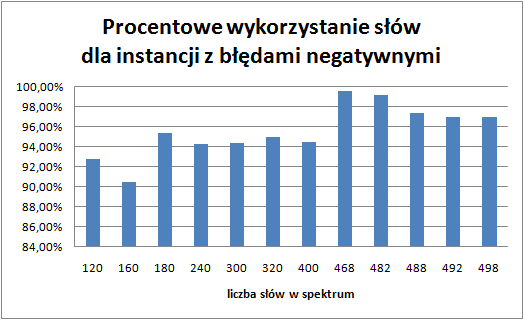
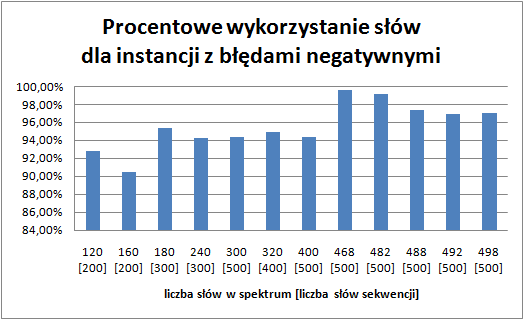
added negative algorithm added 3 new charts for negative algorithm added new chapters for report output file for negative algorithm

diff --git a/doc/report.tex b/doc/report.tex
@@ -150,6 +150,23 @@ $AGCTGTGACT$
 Algorytm zakończył swoje działanie. Zupełnie przypadkowo uzyskana sekwencja zgadza się z sekwencją wyjściową, mimo tego, że w ostatnim kroku algorytmu zostały sklejone słowa w sposób niekorzystny.
 Należy zauważyć, że znaczny wpływ na działanie algorytmu ma sposób wyboru wierzchołka w silnie spójnej składowej grafu z którego zostaną usunięte łuki, a także kolejność występowania wierzchołków w silnie spójnych składowych grafu. Jeśli na początku zamiast usuwać łuk z wierzchołka $TGT$ usunęlibyśmy dowolny inny łuk z tej silnie spójnej składowej grafu, to dalsze iteracje miałyby inny przebieg.
 
+\section{SBH negative}
+W algorytmie dla błędów pozytywnych korzystaliśmy z funkcji odległości dwóch łańcuchów tekstowych względem siebie. Było to możliwe dzięki temu, że porównywane łańcuchy miały tą samą długość. W przypadku algorytmu ogólnego, w którym również wykorzystujemy pojęcie odległości do konstrukcji łuków wkrada się pewna nieścisłość. Otóż porównywane są łańcuchy o różnych długościach. Jeśli więc mamy dwa łańcuchy S1=$AAAAAAA$ (długości 7 znaków) oraz S2=$GGGGGGGGAAA$ (długości 11 znaków), to zostanie utworzony łuk od S1 do S2 o koszcie 7, a w drugą stronę od S2 do S1 o koszcie 8. Zgodnie z algorytmem ogólnym uwzględniony zostanie łuk o niższym koszcie jako lepszy. Jak widać jest to złudne wrażenie, ponieważ łącząc elementy przy pomocy drugiego łuku aż trzy znaki pokryją się ze sobą, co oznacza, że będzie to lepsze połączenie de facto, bo utworzy krótszą sekwencję.
+Z powyższej obserwacji wynika, że należy zmodyfikować funkcję nadawania wartości łukom, aby uwzględniać relatywną liczbę powtarzających się znaków. W ten sposób tworzymy algorytm, który radzi sobie lepiej z instancjami zawierającymi błędy negatywne. Pogrubione zostały fragmenty, które uległy modyfikacji.
+
+Algorytm 4:
+1. Wczytaj zbiór wszystkich słów tworzących spektrum do słownika OLIGS
+2. Utwórz graf skierowany {\bf G}. Niech zbiór wierzchołków V stanowią słowa w słowniku OLIGS. Dla każdej pary wierzchołków $(i,j)$ dodaj łuk od wierzchołka $i$ do $j$ o koszcie równym {\bf różnicy długości słowa $i$ do odległości słowa w wierzchołku $j$ względem słowa w wierzchołku $i$}
+3. Znajdź {\bf najwyższy koszt łuku MAX} w grafie {\bf G}
+4. Utwórz graf skierowany {\bf G'}, który jest podgrafem grafu {\bf G} i zawiera tylko łuki o koszcie {\bf MAX}
+5. Usuń cykle w grafie {\bf G'} tworząc graf {\bf RES} korzystając z Algorytmu 1
+6. Uszereguj topologicznie {\bf RES}
+7. Wybierz najdłuższą możliwą ścieżkę {\bf PATH} w grafie {\bf RES}
+8. Usuń ze słownika OLIGS słowa wchodzące w skład ścieżki {\bf PATH}, w zamian dodając słowo utworzone przez połączenie słów zgodnie z kolejnością w ścieżce {\bf PATH}
+9. Jeśli słownik OLIGS zawiera dokładnie jedno słowo, to zakończ, w przeciwnym wypadku idź do punktu 2
+
+Powyższy algorytm posiada identyczną złożoność jak algorytm ogólny, działa jednak znacznie lepiej.
+
 \section{Wyniki}
 
 Wszystkie poniższe wykresy i porównania zostały wygenerowane na zbiorze instancji testowych. Należy przy tym zauważyć, że instancje z błędami pozytywnymi charakteryzują się tym, że można w nich wyróżnić jeden długi łańcuch, do którego czasem dochodzą lub wychodzą pojedyncze rozgałęzienia, tworząc czasem cykl. W przypadku instancji z błędami negatywnymi możemy wyróżnić kilka długich łańcuchów, które w najczęściej są w prosty sposób rozgałęzione. Zauważmy, że to, że dany łańcuch można idealnie "skleić" w całość nie oznacza, że jest to optymalne sklejenie. Może się bowiem tak zdarzyć, że brakujące słowa tworzyły cykl w grafie połączeń, co oczywiście zwiększa możliwość różnych kombinacji sekwencji z takiego łańcucha (inne symbole byłyby na początku i na końcu utworzonej sekwencji, przez co mogło istnieć lepsze dopasowanie).
@@ -170,11 +187,26 @@ Na wykresie obrazującym liczbę niewykorzystanych słów z instancji dla poszcz
 
 \subsection{Algorytm 2}
 
-Algorytm specyficzny dla problemów z błędami pozytywnymi jest tak nrapwdę szczególnym przypadkiem algorytmu ogólnego. Różnica polega na tym, że algorytm ten nie uwzględnia w ogóle łuków o kosztach wyższych niż jeden. Wynika to z obserwacji, że w instancji z błędami pozytywnymi (a więc z nadmiarem słów) musi istnieć ścieżka oparta o łuki o koszcie 1, która zawiera dokładnie $n$ wierzchołków. Algorytm ten poszukuje właśnie takiej ścieżki. Zauważmy, że wykres procentowego wykorzystania słów z instancji dla Algorytmu 2 wygląda identycznie jak analogiczny wykres dla Algorytmu 3. Jedynym sensownym porównaniem wydaje się być porównanie czasowe.
+Algorytm specyficzny dla problemów z błędami pozytywnymi jest tak naprawdę szczególnym przypadkiem algorytmu ogólnego. Różnica polega na tym, że algorytm ten nie uwzględnia w ogóle łuków o kosztach wyższych niż jeden. Wynika to z obserwacji, że w instancji z błędami pozytywnymi (a więc z nadmiarem słów) musi istnieć ścieżka oparta o łuki o koszcie 1, która zawiera dokładnie $n$ wierzchołków. Algorytm ten poszukuje właśnie takiej ścieżki. Zauważmy, że wykres procentowego wykorzystania słów z instancji dla Algorytmu 2 wygląda identycznie jak analogiczny wykres dla Algorytmu 3. Jedynym sensownym porównaniem wydaje się być porównanie czasowe.
+
+\subsection{Algorytm 4}
+
+Algorytm specyficzny dla problemów z błędami negatywnymi jest zmodyfikowaną wersją algorytmu ogólnego. Różnią się one metodą wyznaczania wartości kosztów na łukach oraz rodzajem łuków najbardziej porządanych w rozwiązaniu (Algorytm 3 szuka najniższego kosztu, Algorytm 4 szuka najwyższego zysku). Mimo tak niewielkiej zmiany możemy zaobserwować na poniższym wykresie znaczny wzrost skuteczności algorytmu w wykorzystywaniu słów tworzących daną instancję.
+\includegraphics{percentageUsedWords_negative.png}
+
+Siłą rzeczy algorytm ten popełnia mało błędów. Jako błąd traktuje się niewykorzystanie słowa z instancji. W większości przypadków pomijane są góra 2 słowa. Jedynie dla instancji niemalże bezbłędnych, w których brakuje mniej niż 10 słów algorytm ma mniejsze pole do popisu i zostawia większą liczbę słów.
+\includegraphics{unusedWords_negative.png}
+
+\subsection{Algorytm 2 kontra Algorytm 3}
 
 \includegraphics{timeDiff_general_vs_positive.png}
 Jak widać na powyższym wykresie istnieje minimalna różnica czasowa w działaniu tych dwóch algorytmów. Przypadek okrojony działa o tysięczne sekundy szybciej, ponieważ nie ma narzutu na sprawdzanie warunku stopu oraz nie są tworzone kilkukrotnie sekwencję z dotychczasowych rozwiązań. Jednak w związku z tak niewielkimi różnicami można powiedzieć, że algorytmy te są porównywalne dla zbioru instancji z błędami pozytywnymi.
 Gdybyśmy uruchomili algorytm dla instancji z błędami negatywnymi otrzymalibyśmy mierny wynik, ponieważ zostałby uwzględniony tylko jeden graf wchodzący w skład lasu grafów który jest badaną instancją.
+
+\subsection{Algorytm 4 kontra Algorytm 3}
+
+\includegraphics{percentageUsedWords_general_vs_negative.png}
+Porównując z kolei algorytm dla błędów negatywnych względem algorytmu ogólnego od razu widzimy, że ten pierwszy jest lepszy - wykorzystuje bowiem średnio $98,97\%$ słów zadanej instancji! Jednak można zauważyć, że choć tak niewielka różnica w działaniu algorytmu ma wpływ dla instancji z dużą ilością brakujących słów, o tyle dla instancji w których brakuje mniej niż 20 słów wyniki są identyczne. Wynika to z tego, że główny "silnik" sklejania sekwencji jest w zasadzie identyczny, tj szuka najdłuższego możliwego łańcucha oligonukleotydów.
 
 \section{Bu}
 

diff --git a/src/sbh_negative.cpp b/src/sbh_negative.cpp
@@ -20,39 +20,26 @@ int main(int argc, char **argv){
     }
 
     Instance instance;
-	Instance instance2;
     instance.read_file(argv[1]);
 	string result;
 
-	while (instance.oligs.size() != 0)
+	while (instance.oligs.size() != 1)
 	{
-		int min_level;
-		adjacency_matrix adjacency_matrix = create_adjacency_matrix(instance, min_level);
-		adjacency_list V = create_adjacency_list(adjacency_matrix, min_level);
+		int max_level;
+		adjacency_matrix adjacency_matrix = create_adjacency_matrix_relative(instance, max_level);
+		adjacency_list V = create_adjacency_list(adjacency_matrix, max_level);
 		
 		vector<int> solution = calc(V);
 		result = instance.get_solution(solution);
 		instance.remove_solution_nodes(solution);
-		instance2.oligs.insert(instance2.oligs.begin(), result);
-	}
-
-	while (instance2.oligs.size() != 1)
-	{
-		int min_level;
-		adjacency_matrix adjacency_matrix = create_adjacency_matrix(instance2, min_level);
-		adjacency_list V = create_adjacency_list(adjacency_matrix, min_level);
-		
-		vector<int> solution = calc(V);
-		result = instance2.get_solution(solution);
-		instance2.remove_solution_nodes(solution);
 		if (result.length() >= instance.n)
 		{
 			result = result.substr(0, instance.n);
-			instance2.oligs.insert(instance2.oligs.begin(), result);
+			instance.oligs.insert(instance.oligs.begin(), result);
 			break;
 		}
 		else
-			instance2.oligs.insert(instance2.oligs.begin(), result);
+			instance.oligs.insert(instance.oligs.begin(), result);
 	}
 	vector<int> sol(1,0);
 	instance.print_solution(sol);

diff --git a/src/graph.cpp b/src/graph.cpp
@@ -63,8 +63,26 @@ adjacency_matrix create_adjacency_matrix(Instance &instance, int &min_level){
         for(int j = 0; j < n; j++)
 		{
             adjacency_matrix[i][j] = oligs[i].distance(oligs[j]);
-			if (i==j) adjacency_matrix[i][j] = min_level;
+			if (i==j) adjacency_matrix[i][j] = min_level + 1;
 			if (adjacency_matrix[i][j] < min_level) min_level = adjacency_matrix[i][j];
+		}
+	}
+    return adjacency_matrix;
+}
+
+adjacency_matrix create_adjacency_matrix_relative(Instance &instance, int &max_level){
+	max_level = 0;
+    vector<Olig> &oligs = instance.oligs;
+    int n = instance.oligs.size();
+    adjacency_matrix adjacency_matrix(n, vector<int>(n));
+
+    for(int i = 0; i < n; i++)
+	{
+        for(int j = 0; j < n; j++)
+		{
+            adjacency_matrix[i][j] = oligs[i].sequence.length() - oligs[i].distance(oligs[j]);
+			if (i==j) adjacency_matrix[i][j] = max_level - 1;
+			if (adjacency_matrix[i][j] > max_level) max_level = adjacency_matrix[i][j];
 		}
 	}
     return adjacency_matrix;

diff --git a/src/graph.h b/src/graph.h
@@ -9,6 +9,7 @@ typedef vector<vector<int> > adjacency_list;
 typedef vector<vector<int> > adjacency_matrix;
 
 adjacency_matrix create_adjacency_matrix(Instance &, int &);
+adjacency_matrix create_adjacency_matrix_relative(Instance &, int &);
 adjacency_list create_adjacency_list(adjacency_matrix &, int);
 vector<vector<int> > strongly_connected_components(adjacency_list &);
 void dfs(int, adjacency_list &,vector<int> &, vector<int> &);
